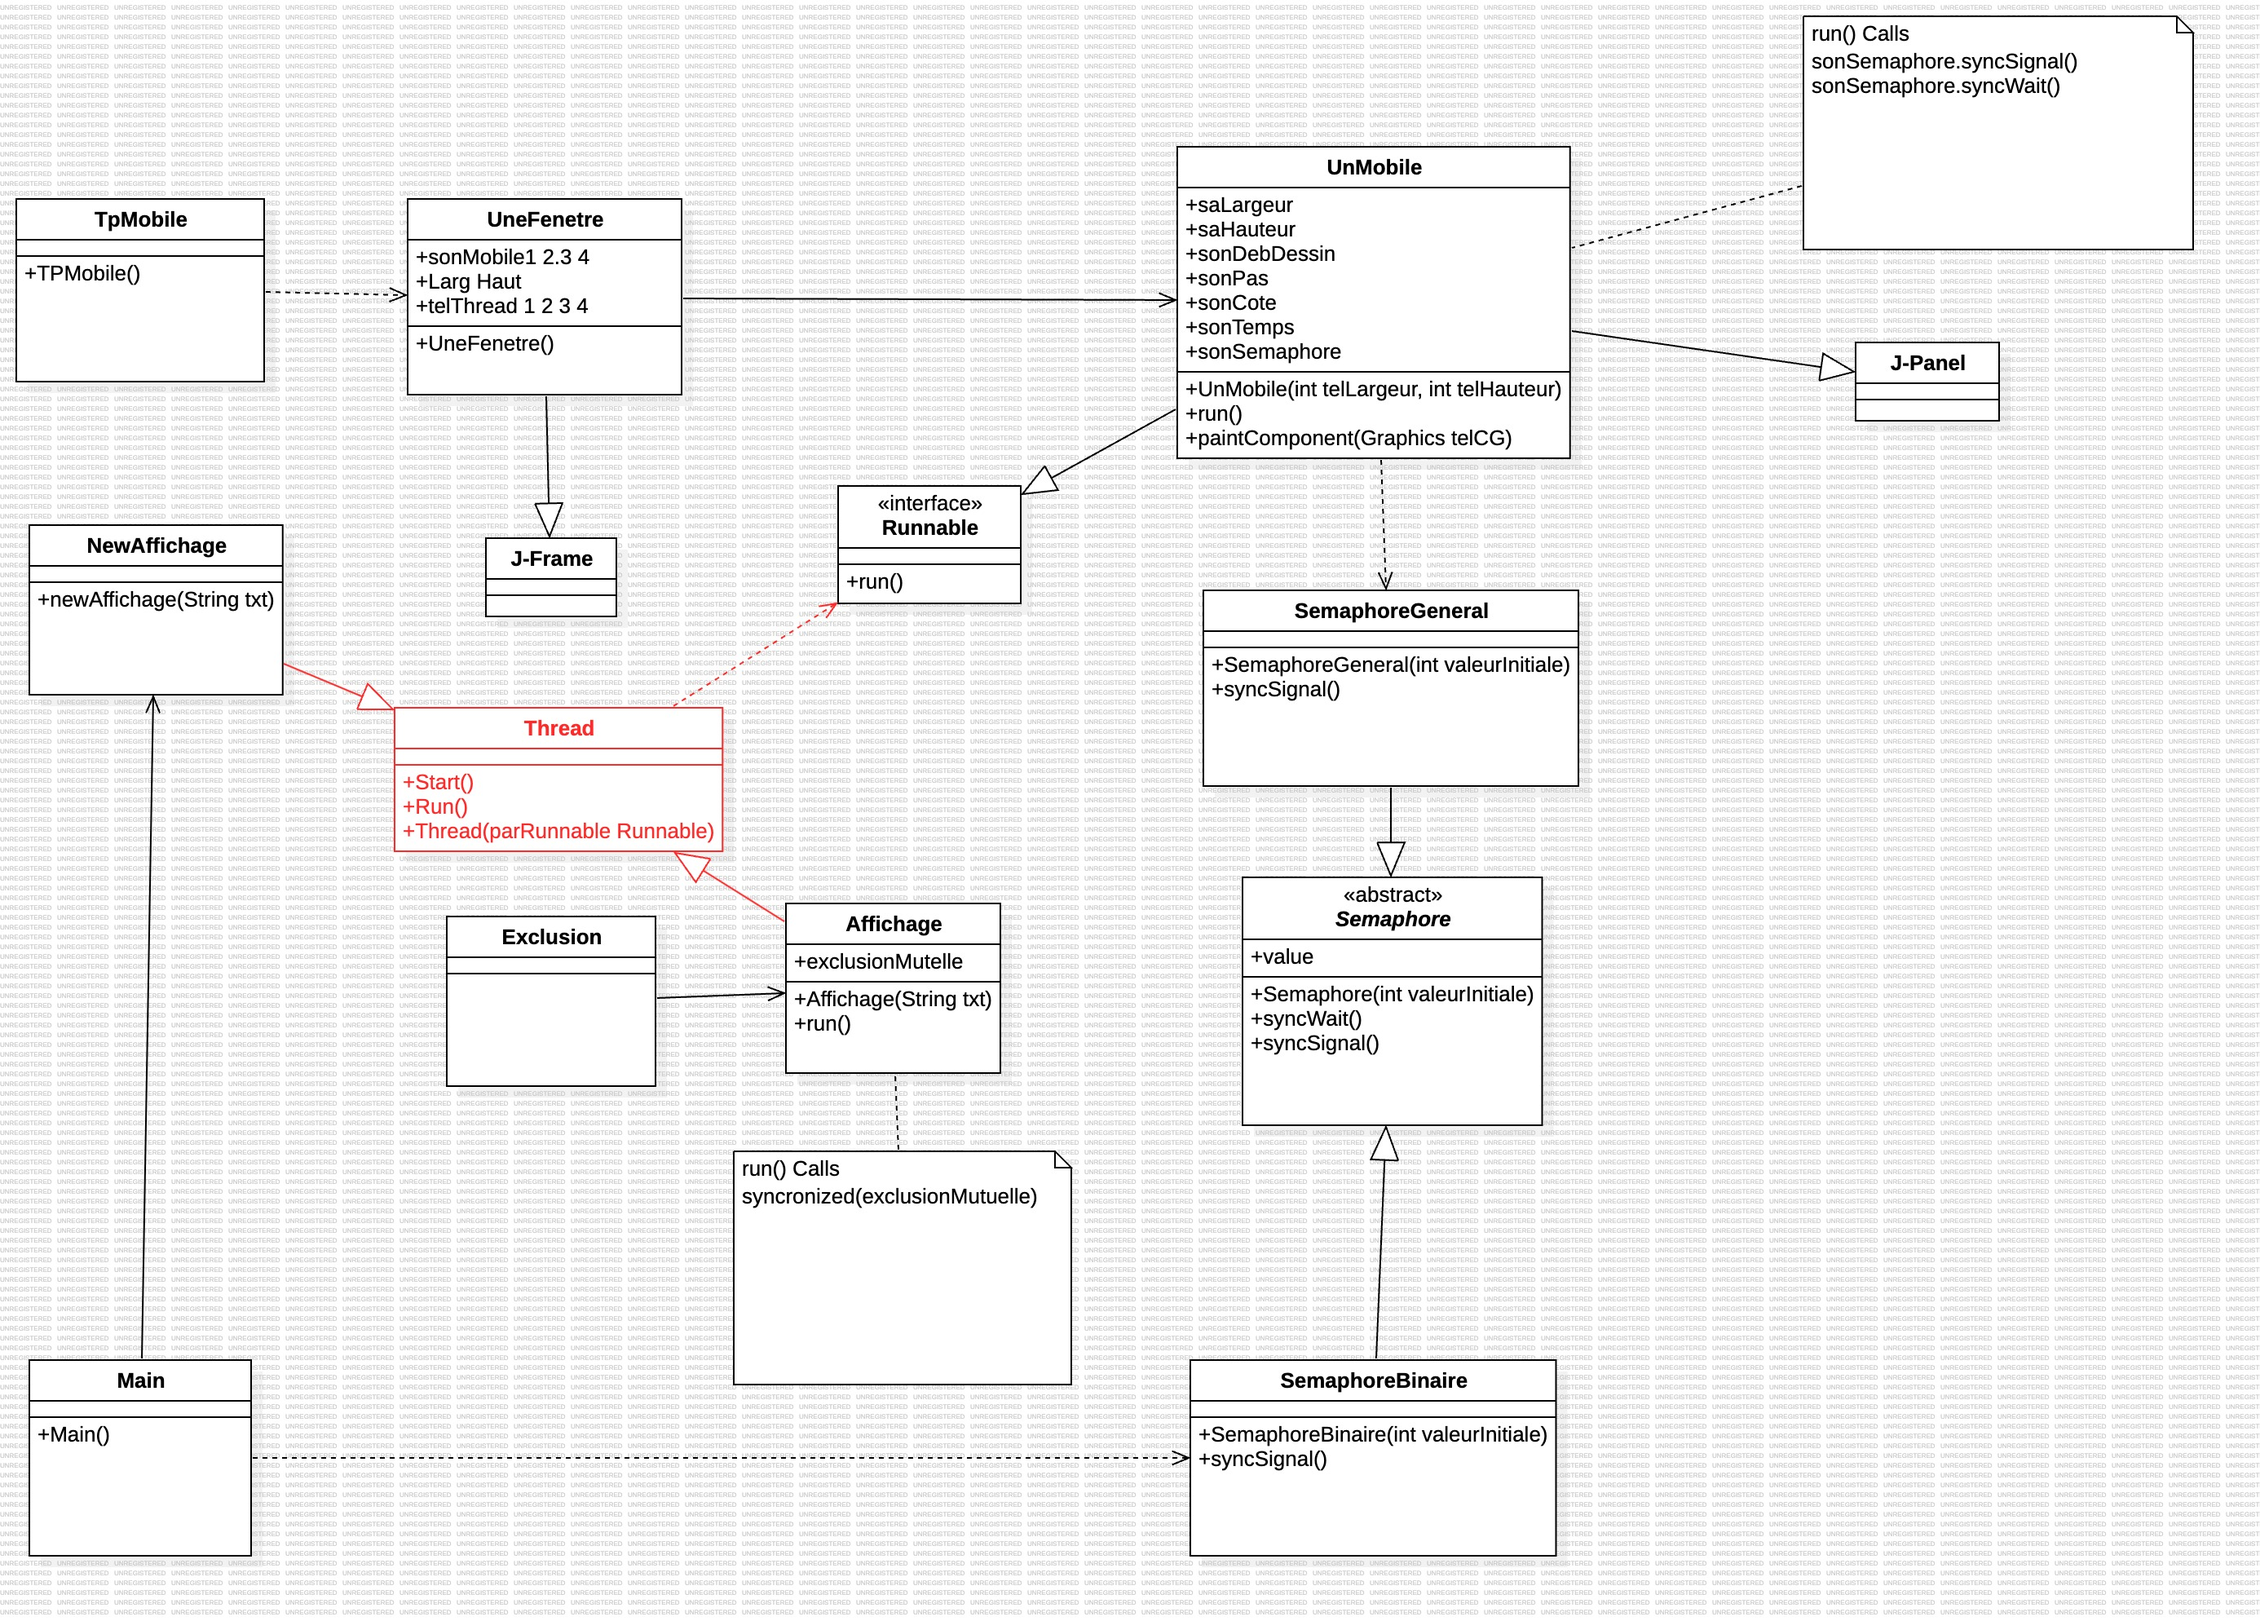
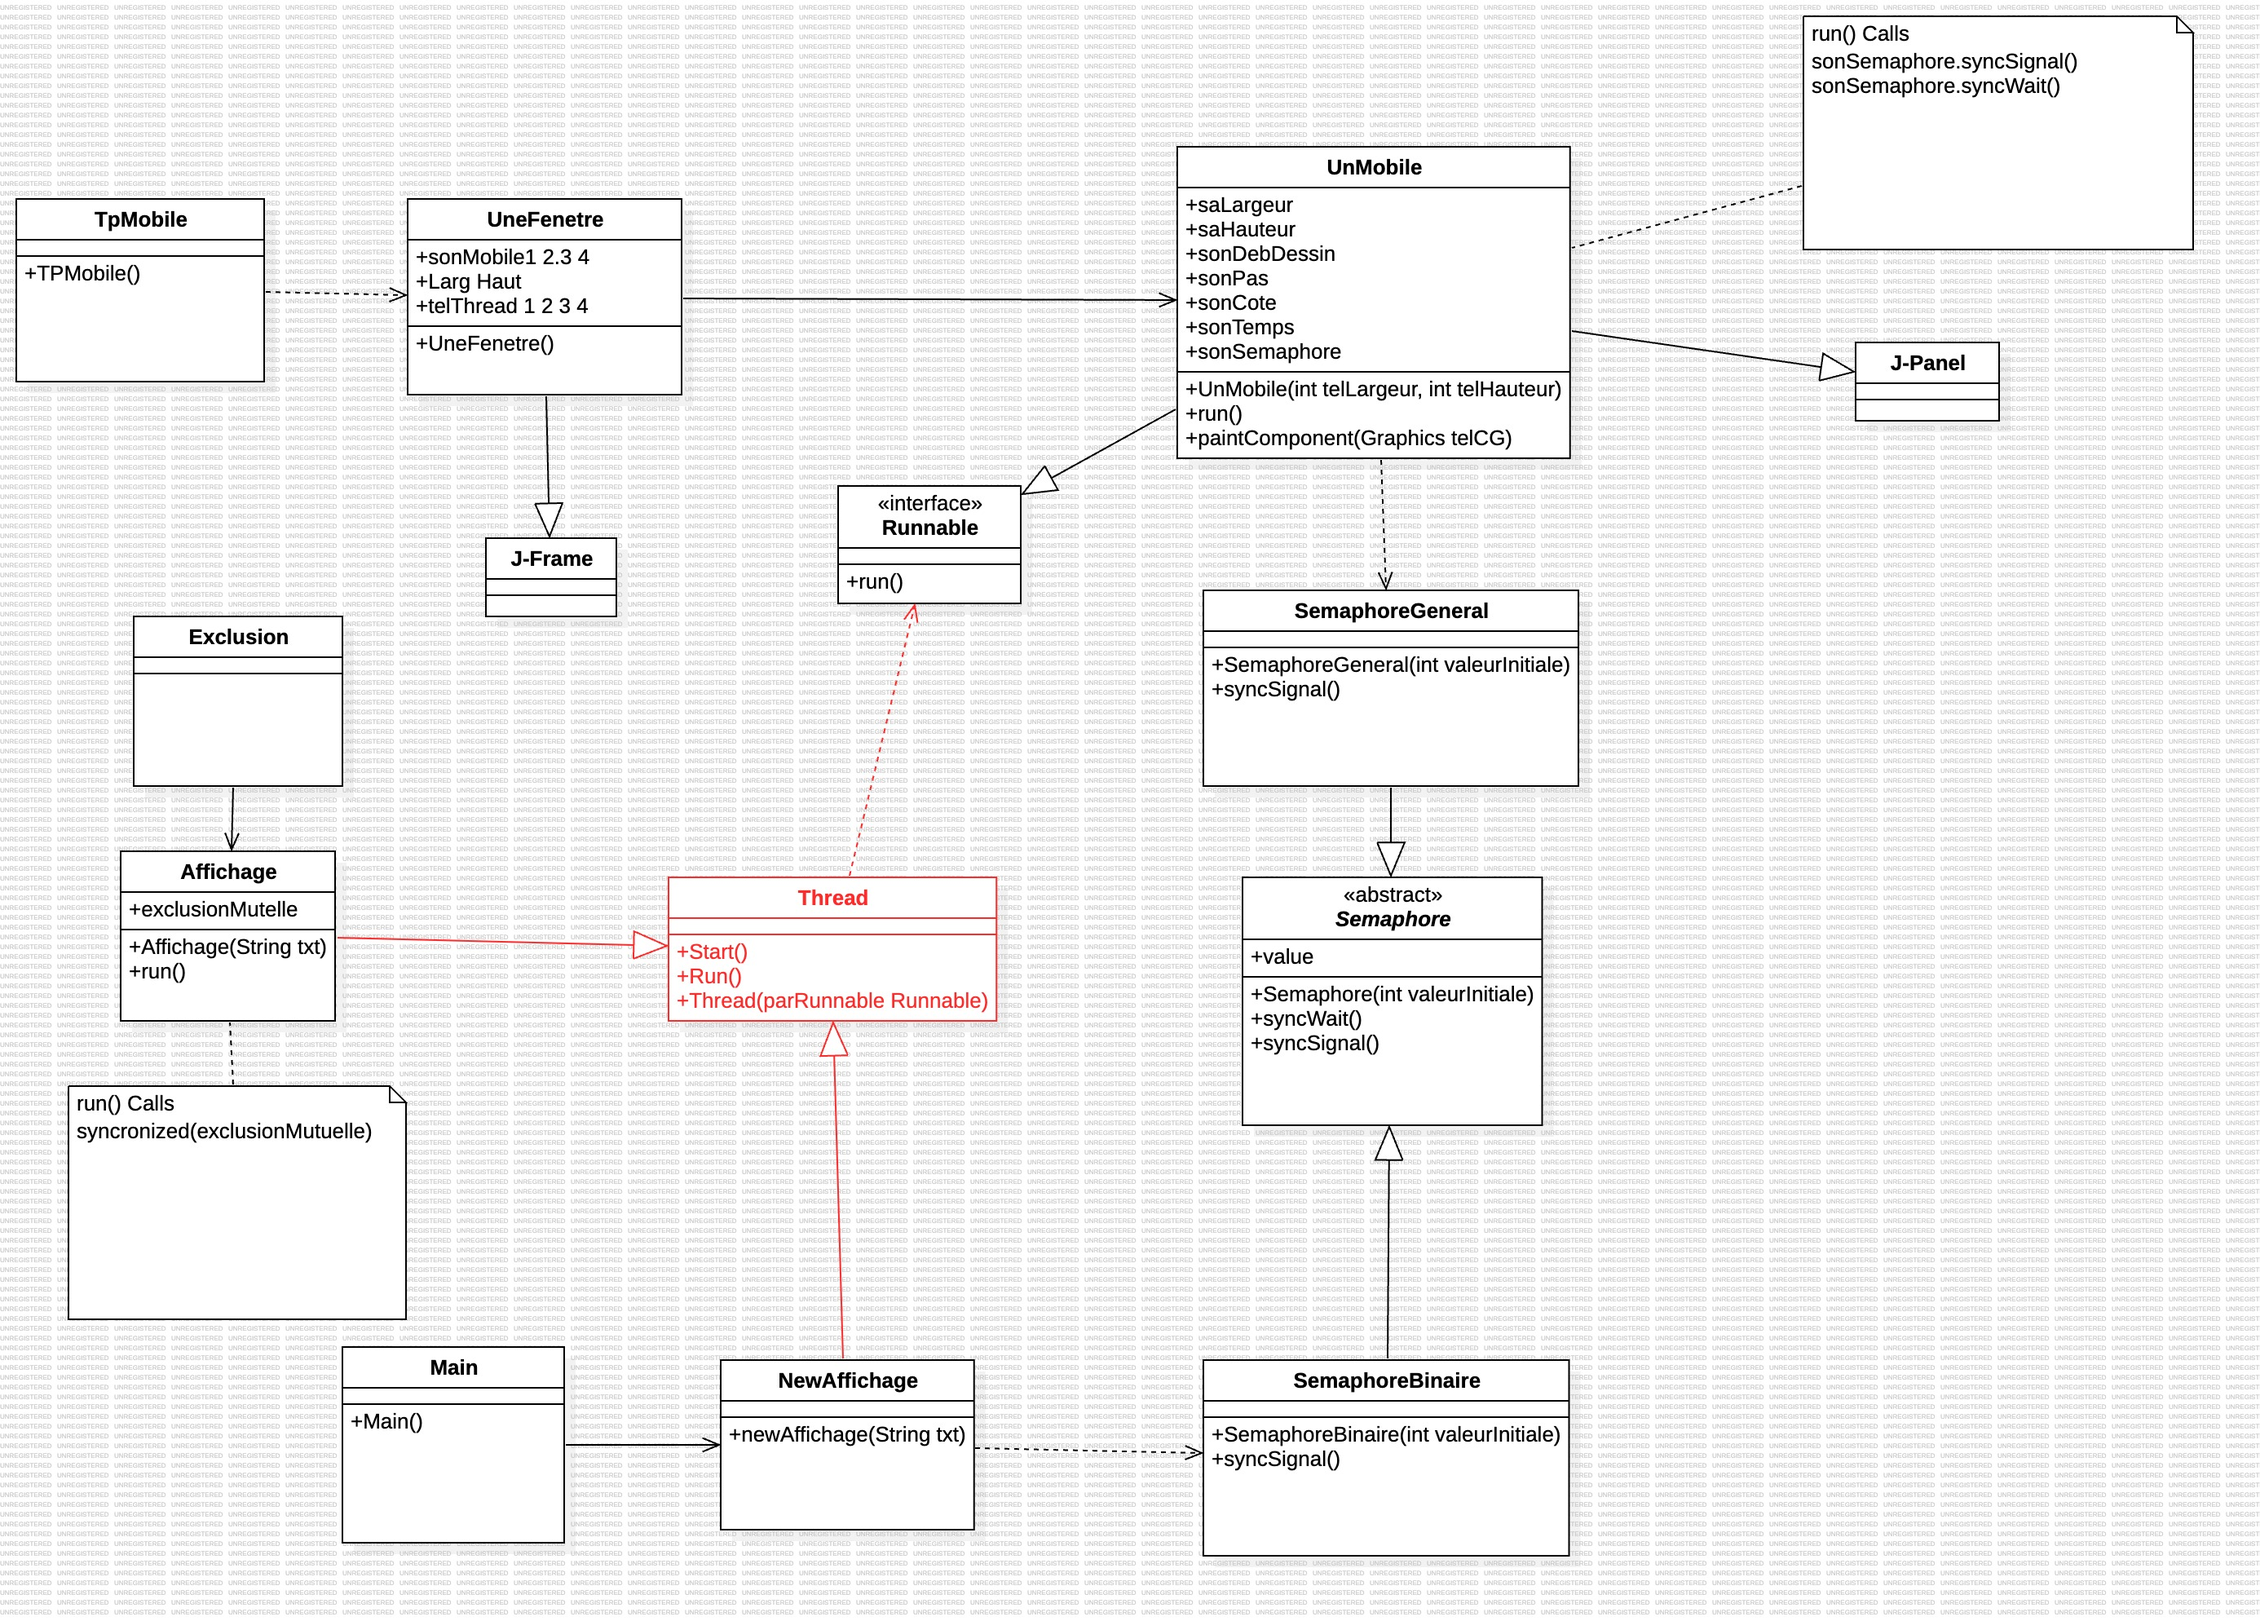
M : Mise à jour de l'affichage des caracteres afin de correspondre plus a ce qui est demandé pour le TP. Modification du rapport en conséquence

Changed region(s): [[0.0, 0.3119, 0.4654, 0.9668], [0.5274, 0.8421, 0.7136, 0.9356], [0.5895, 0.6861, 0.6205, 0.7173]]

diff --git a/TP_2/Main.java b/TP_2/Main.java
@@ -9,69 +9,15 @@ import java.lang.String;
 public class Main {
 
     public static void main(String[] args) {
-        SemaphoreBinaire sem = new SemaphoreBinaire(1);
-
-        Thread TA = new Thread(() -> {
-            sem.syncWait();
-            System.out.println("\n TA : j'entre dans la section critique");
-            NewAffichage aff = new NewAffichage("AAA");
-            aff.start();
-            try {
-                aff.join();
-            } catch (InterruptedException e) {
-                e.printStackTrace();
-            }
-            System.out.println("\n TA : je sors de la section critique");
-            sem.syncSignal();
-        });
-
-        Thread TB = new Thread(() -> {
-            sem.syncWait();
-            System.out.println("\n TB : j'entre dans la section critique");
-            NewAffichage aff = new NewAffichage("BB");
-            aff.start();
-            try {
-                aff.join();
-            } catch (InterruptedException e) {
-                e.printStackTrace();
-            }
-            System.out.println("\n TB : je sors de la section critique");
-            sem.syncSignal();
-        });
-
-        Thread TC = new Thread(() -> {
-            sem.syncWait();
-            System.out.println("\n TC : j'entre dans la section critique");
-            NewAffichage aff = new NewAffichage("CCCC");
-            aff.start();
-            try {
-                aff.join();
-            } catch (InterruptedException e) {
-                e.printStackTrace();
-            }
-            System.out.println("\n TC : je sors de la section critique");
-            sem.syncSignal();
-        });
-
-        Thread TD = new Thread(() -> {
-            sem.syncWait();
-            System.out.println("\n TD : j'entre dans la section critique");
-            NewAffichage aff = new NewAffichage("DDD");
-            aff.start();
-            try {
-                aff.join();
-            } catch (InterruptedException e) {
-                e.printStackTrace();
-            }
-            System.out.println("\n TD : je sors de la section critique");
-            sem.syncSignal();
-        });
+        NewAffichage TA = new NewAffichage("AAA");
+        NewAffichage TB = new NewAffichage("BB");
+        NewAffichage TC = new NewAffichage("CCCC");
+        NewAffichage TD = new NewAffichage("DDD");
 
         TA.start();
-        TB.start();
         TC.start();
+        TB.start();
         TD.start();
     }
-
 }
 

diff --git a/TP_2/NewAffichage.java b/TP_2/NewAffichage.java
@@ -5,18 +5,19 @@ import static java.lang.Thread.sleep;
 class NewAffichage extends Thread {
     String texte;
 
-    public NewAffichage(String txt) {
-        texte = txt;
-    }
+    static SemaphoreBinaire sem = new SemaphoreBinaire(1);
 
-    public void run() {
-        for (int i = 0; i < texte.length(); i++) {
+    public NewAffichage (String txt){texte=txt;}
+
+    public void run(){
+
+        System.out.println("\n J'entre dans la section critique :" + texte + "\n");
+        sem.syncWait();
+        for (int i=0; i<texte.length(); i++){
             System.out.print(texte.charAt(i));
-            try {
-                sleep(100); // Pause pour contrôler la vitesse d'affichage
-            } catch (InterruptedException e) {
-                e.printStackTrace();
-            }
+            try {sleep(100);} catch(InterruptedException e){};
         }
+        sem.syncSignal();
+        System.out.println("\n Je sors de la section critique" + texte + "\n");
     }
 }

diff --git a/TP_2/RapportTP2.md b/TP_2/RapportTP2.md
@@ -16,6 +16,10 @@
     - [Affichage.java](#affichagejava)
     - [SemaphoreBinaire.java](#semaphorebinairejava)
     - [Semaphore.java](#semaphorejava)
+    - [TpMobile.java](#tpmobilejava)
+    - [UnMobile.java](#unmobilejava)
+    - [SemaphoreGeneral.java](#semaphoregeneraljava)
+    - [UneFenetre.java](#unefenetrejava)
 - [Conclusion](#conclusion)
 
 ## Introduction
@@ -60,7 +64,7 @@ Dans `TP_1/UnMobile.java`, il n'y a pas d'utilisation de sémaphores, donc les m
 
 **But** : Classe d'entrée de l'application.
 
-**Utilisation du sémaphore** : Un objet `SemaphoreBinaire` est créé pour gérer l'accès à une section critique entre les threads (TA, TB, TC, TD).
+**Utilisation du sémaphore** : N'est pas utilisée directement pour l'affichage, mais gère les threads d'affichage.
 
 Chaque thread suit un cycle structuré :
 - Appel à `syncWait` avant d'entrer dans la section critique, réduisant la valeur du sémaphore. Si elle est déjà à 0, le thread attend.
@@ -69,9 +73,9 @@ Chaque thread suit un cycle structuré :
 
 ### NewAffichage.java
 
-**But** : Classe représentant un thread d'affichage, affichant chaque caractère du texte de manière séquentielle et avec un léger délai.
+**But** : Classe représentant un thread d'affichage, utilisant la classe `SemaphoreBinaire` pour gérer l'exclusion mutuelle.
 
-**Utilisation du sémaphore** : Bien que la classe elle-même n'interagisse pas directement avec le sémaphore, les instances de `NewAffichage` sont créées et gérées par les threads dans `Main.java`. L'exclusion mutuelle assurée par le sémaphore dans `Main.java` permet à chaque instance d'afficher son texte dans un environnement synchronisé.
+**Utilisation du sémaphore** : `NewAffichage` utilise un sémaphore binaire pour contrôler l'accès à la section critique. La méthode `run` appelle `syncWait` avant d'afficher le texte, puis `syncSignal` pour libérer la ressource. Cela garantit que seul un thread à la fois peut afficher le texte, évitant les conflits d'accès.
 
 ### Affichage.java
 
@@ -92,6 +96,30 @@ Chaque thread suit un cycle structuré :
 **Utilisation du sémaphore** : La classe `Semaphore` contient la logique centrale de synchronisation, gérant l'état du sémaphore via des méthodes synchronisées. La méthode `syncWait` réduit la valeur du sémaphore, indiquant qu'un thread utilise la ressource. Si la valeur est 0, le thread est mis en attente. La méthode `syncSignal` augmente la valeur, libérant la ressource pour un autre thread.
 
 Cette structure permet aux classes dérivées, comme `SemaphoreBinaire`, d'adapter le comportement tout en utilisant les fonctionnalités de base (par exemple, limiter la valeur à 1 pour un sémaphore binaire).
+
+### TpMobile.java
+
+**But** : Classe principale de l'application, gérant les threads d'affichage et les mobiles.
+
+**Utilisation du sémaphore** : Aucune
+
+### UnMobile.java
+
+**But** : Classe représentant un mobile se déplaçant dans une zone centrale.
+
+**Utilisation du sémaphore** : `UnMobile` utilise un sémaphore général pour contrôler l'accès à la zone centrale. La méthode `run` appelle `syncWait` avant d'entrer dans la zone, puis `syncSignal` pour en sortir. Cela garantit qu'un seul mobile à la fois peut occuper la zone centrale, évitant les collisions.
+
+### SemaphoreGeneral.java
+
+**But** : Classe représentant un sémaphore général, qui peut prendre des valeurs supérieures à 1.
+
+**Utilisation du sémaphore** : `SemaphoreGeneral` étend la classe abstraite `Semaphore` pour gérer l'accès à une ressource partagée par plusieurs threads. La méthode `syncSignal` est redéfinie pour permettre des valeurs supérieures à 1, contrôlant ainsi le nombre de threads pouvant accéder à la ressource simultanément.
+
+### UneFenetre.java
+
+**But** : Classe représentant une fenêtre d'affichage.
+
+**Utilisation du sémaphore** : `UneFenetre` n'utilise pas directement de sémaphores, mais elle gere les threads d'affichage et les mobiles, permettant de visualiser l'interaction entre les threads et les ressources partagées.
 
 ## Conclusion
 
